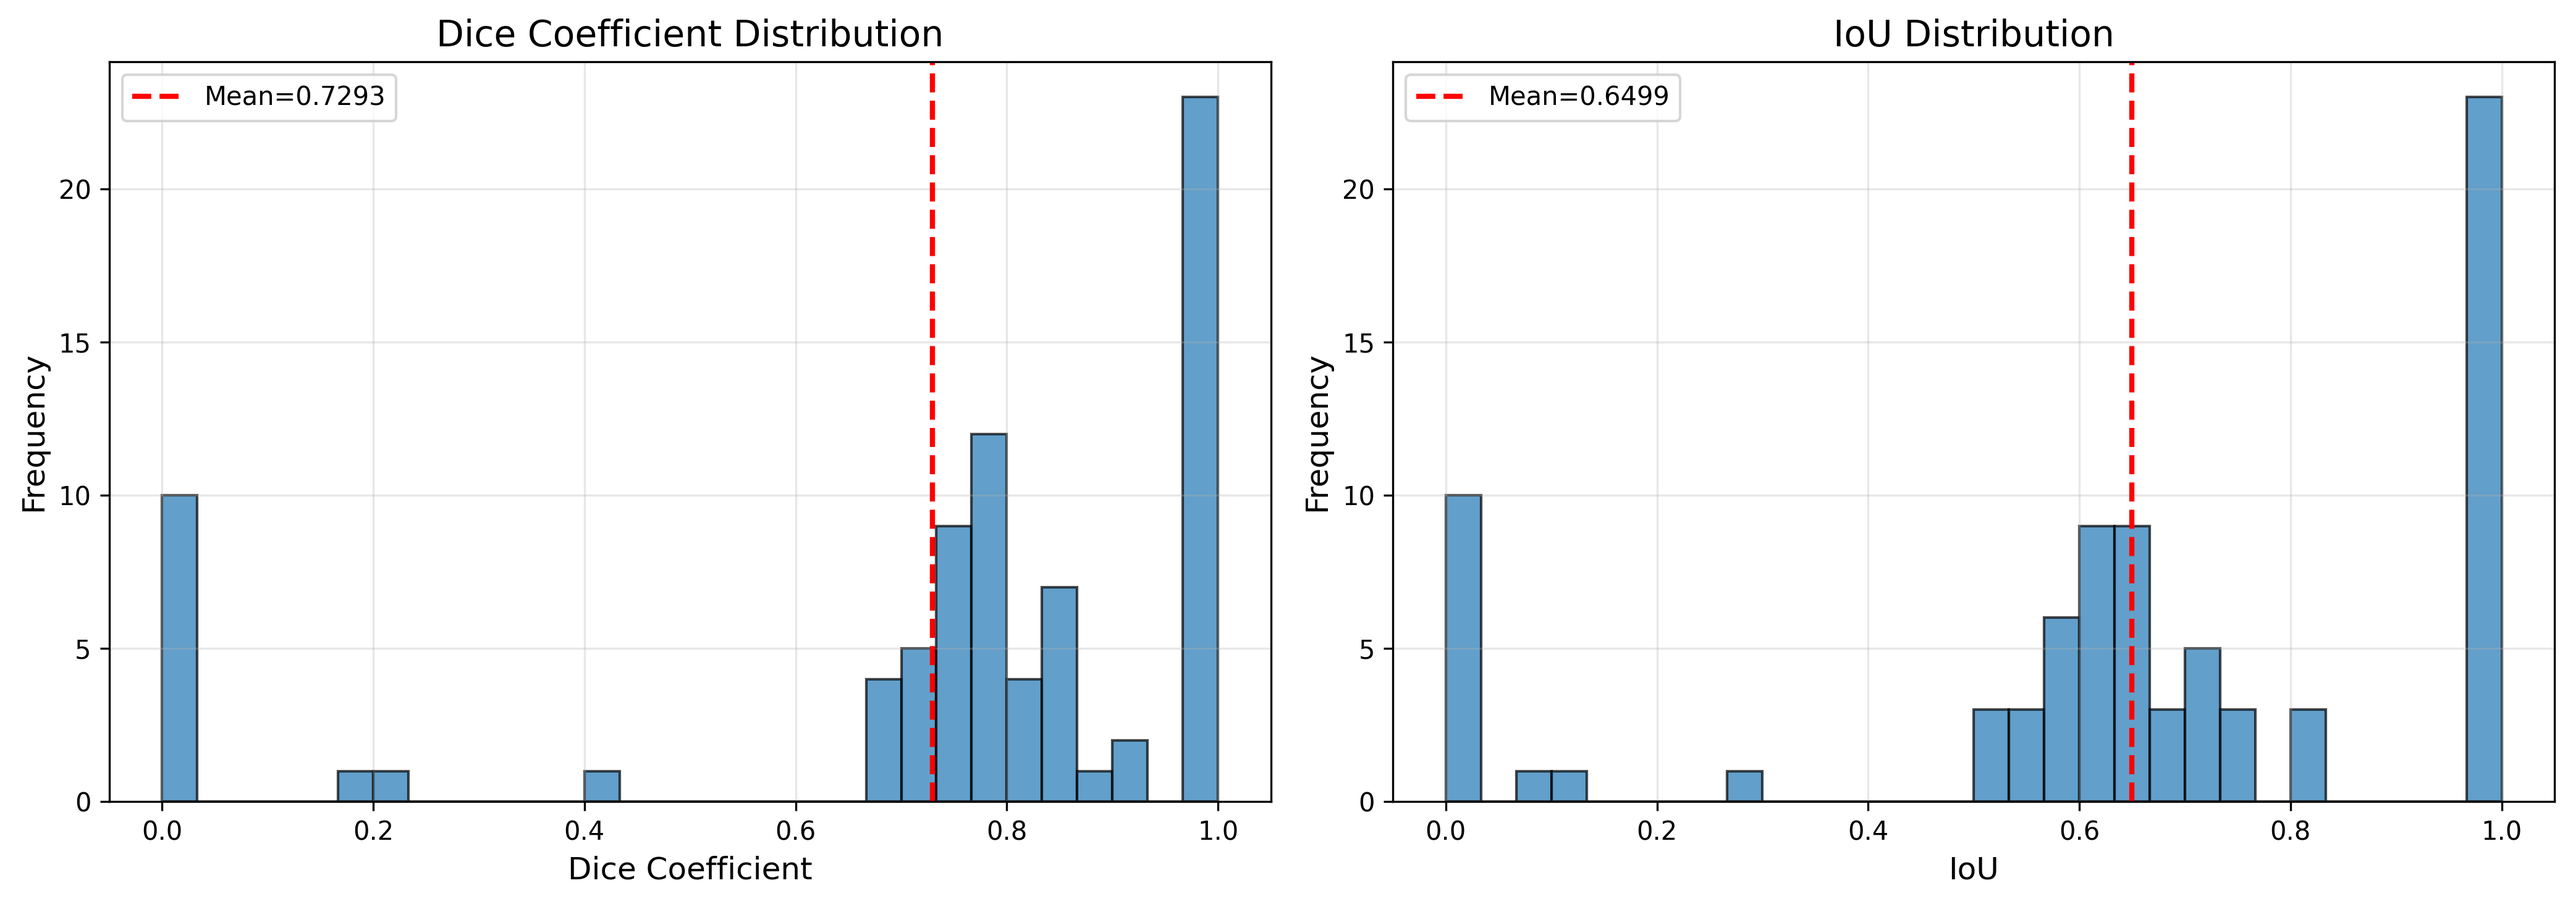
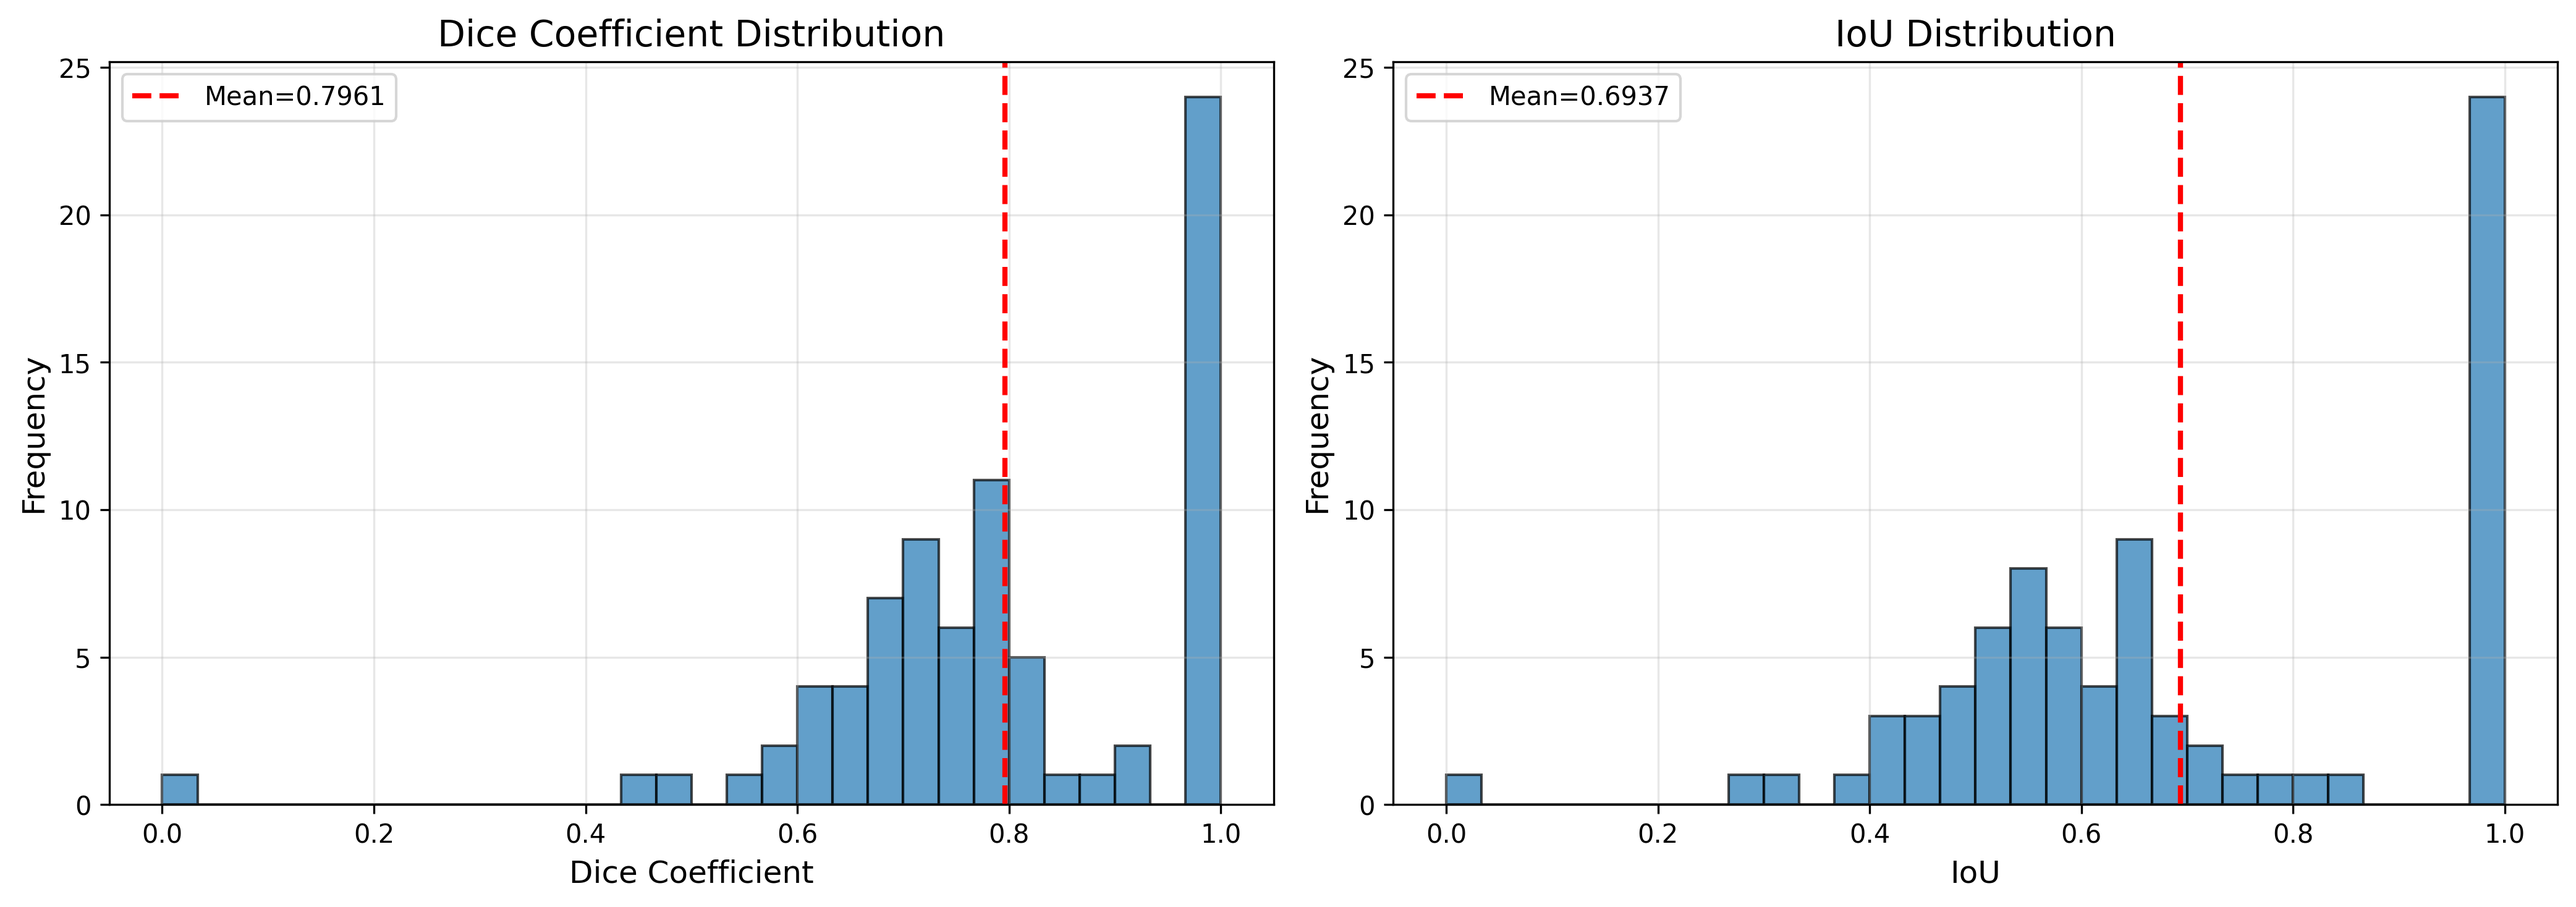
.

diff --git a/src/eval_segment.py b/src/eval_segment.py
@@ -20,6 +20,7 @@ from typing import Dict, List, Tuple
 import cv2
 import matplotlib.pyplot as plt
 import numpy as np
+import seaborn as sns
 from tqdm import tqdm
 from ultralytics import YOLO
 
@@ -175,6 +176,52 @@ def compute_dice_iou(pred_mask: np.ndarray, gt_mask: np.ndarray) -> Tuple[float,
     return float(dice), float(iou)
 
 
+def compute_pixel_confusion(pred_mask: np.ndarray, gt_mask: np.ndarray) -> np.ndarray:
+    """Return 2x2 pixel-level confusion matrix [[TN, FP], [FN, TP]] for Background/Crack."""
+    pred_binary = (pred_mask > 127).astype(bool)
+    gt_binary = (gt_mask > 127).astype(bool)
+    tp = int(np.logical_and(pred_binary, gt_binary).sum())
+    fp = int(np.logical_and(pred_binary, ~gt_binary).sum())
+    fn = int(np.logical_and(~pred_binary, gt_binary).sum())
+    tn = int(np.logical_and(~pred_binary, ~gt_binary).sum())
+    return np.array([[tn, fp], [fn, tp]], dtype=np.int64)
+
+
+def plot_pixel_confusion_matrix(cm: np.ndarray, output_path: Path):
+    """Plot and save pixel-level binary confusion matrix including background."""
+    class_names = ['Background', 'Crack']
+    cm_norm = cm.astype(float) / cm.sum(axis=1, keepdims=True).clip(min=1)
+
+    fig, axes = plt.subplots(1, 2, figsize=(14, 5))
+
+    for ax, data, fmt, title in zip(
+        axes,
+        [cm, cm_norm],
+        ['d', '.2%'],
+        ['Pixel Confusion Matrix (Counts)', 'Pixel Confusion Matrix (Normalised)'],
+    ):
+        sns.heatmap(
+            data,
+            annot=True,
+            fmt=fmt,
+            cmap='Blues',
+            xticklabels=class_names,
+            yticklabels=class_names,
+            ax=ax,
+            linewidths=0.5,
+            linecolor='#DDDDDD',
+            cbar_kws={'label': 'Pixel proportion' if fmt == '.2%' else 'Pixel count'},
+        )
+        ax.set_title(title, fontsize=13, pad=12)
+        ax.set_xlabel('Predicted', fontsize=11)
+        ax.set_ylabel('True', fontsize=11)
+
+    plt.tight_layout()
+    plt.savefig(output_path, dpi=300, bbox_inches='tight')
+    plt.close()
+    print(f'✓ Pixel confusion matrix saved to: {output_path}')
+
+
 def create_overlay_image(image: np.ndarray, pred_mask: np.ndarray, gt_mask: np.ndarray) -> np.ndarray:
     """Create visualization overlay: GT in green, pred in red, overlap in yellow."""
     # Ensure image is RGB
@@ -273,6 +320,7 @@ def evaluate_split(
             "pred_mask": pred_mask,
             "gt_mask": gt_mask,
             "image": image,
+            "pixel_cm": compute_pixel_confusion(pred_mask, gt_mask),
         })
     
     return results_list, dice_scores, iou_scores
@@ -450,7 +498,20 @@ def main():
     with open(metrics_file, "w") as f:
         json.dump(metrics, f, indent=2)
     print(f"✓ Metrics saved to: {metrics_file}")
-    
+
+    # Pixel-level confusion matrix (includes background/background)
+    total_cm = np.zeros((2, 2), dtype=np.int64)
+    for r in results_list:
+        total_cm += r["pixel_cm"]
+    cm_file = output_dir / f"pixel_confusion_matrix_{args.split}.png"
+    plot_pixel_confusion_matrix(total_cm, cm_file)
+
+    tn, fp, fn, tp = total_cm[0, 0], total_cm[0, 1], total_cm[1, 0], total_cm[1, 1]
+    print(f"  TN (background→background): {tn:,}")
+    print(f"  FP (background→crack):      {fp:,}")
+    print(f"  FN (crack→background):      {fn:,}")
+    print(f"  TP (crack→crack):           {tp:,}")
+
     # Save visualizations
     if args.save_worst > 0:
         print(f"\nSaving {args.save_worst} worst cases...")
